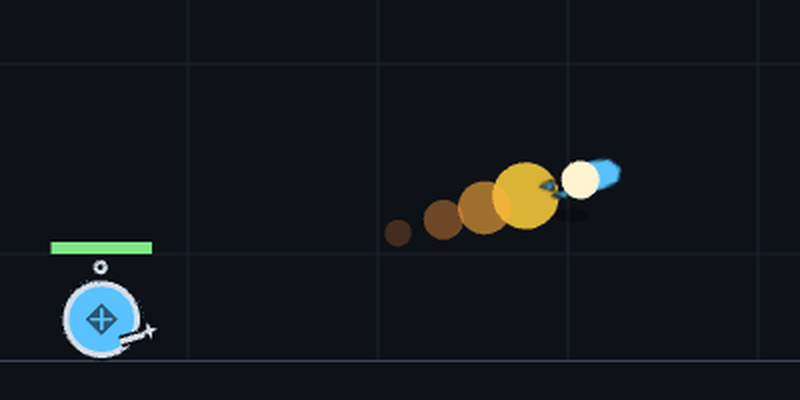
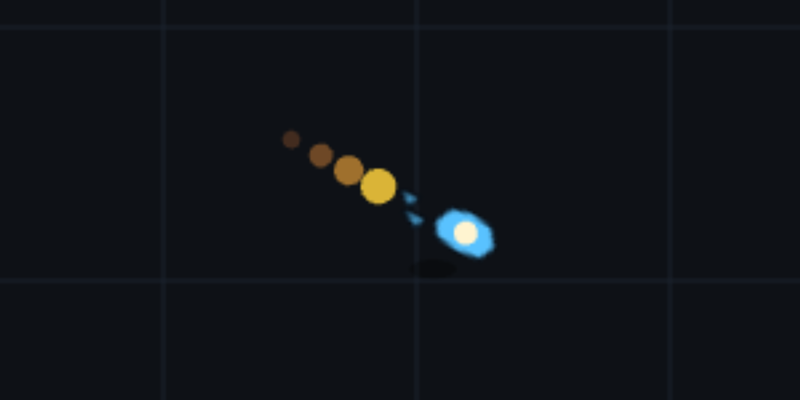
#3292: size a spell's core and trail from its visible sprite, not its frame
Each projectile sprite gets its head (where it sits, how big) read off
its SVG; the core sits on the head, the trail starts behind the
sprite's tail with no dot bigger than the head. Retaken Glowstone
flight shot, new Mighty Blow shot.

Changed region(s): [[0.0, 0.6, 1.0, 0.93], [0.3438, 0.33, 0.7812, 0.66]]

diff --git a/apps/web/src/render/projectiles.ts b/apps/web/src/render/projectiles.ts
@@ -170,12 +170,37 @@ export function projectileLayer(shot: RenderableProjectile, clock: number): numb
  * A flying spell's look (#3292, docs/art/3191-skill-visuals.md
  * "Glowstone"): over its own sprite, which tells which spell it is, a
  * near-white core says it is hot, a short warm trail says where it came
- * from, and a soft shadow on the ground under it says it flies.
+ * from, and a soft shadow on the ground under it says it flies. All of
+ * it is sized from what the sprite draws, never from its padded frame.
  */
 
-/** The core: near-white, this share of the sprite's radius. */
+/** Where a sprite's bright head sits in its frame, px: this far ahead of the frame's centre, this big. */
+export interface SpriteHead {
+  readonly along: number;
+  readonly radius: number;
+}
+
+/** Each sprite's head, read off its SVG in `public/icons/projectile/`. */
+export const SPRITE_HEAD: Readonly<Record<ProjectileSprite, SpriteHead>> = {
+  arrow: { along: 10, radius: 4 },
+  spear: { along: 8, radius: 4 },
+  bolt: { along: 8.5, radius: 4.5 },
+  fireball: { along: 8.5, radius: 4.5 },
+  "lightning-orb": { along: 9, radius: 4 },
+  "ice-shard": { along: 6, radius: 3 },
+  "water-trident": { along: 10, radius: 5 },
+  "ebon-hawk": { along: 5, radius: 3 },
+  stone: { along: 6, radius: 5 },
+  "thrown-dagger": { along: 8, radius: 3 },
+  "deathly-swarm": { along: 10, radius: 4.5 },
+};
+
+/** How far behind the frame's centre every sprite's tail ends, px: each starts 2 px into its 32 px frame. */
+export const SPRITE_TAIL = 14;
+
+/** The core: near-white, this share of the head's radius, on the head. */
 export const SHOT_CORE_COLOUR = 0xfff4d0;
-export const SHOT_CORE_SHARE = 0.4;
+export const SHOT_CORE_SHARE = 0.6;
 
 /** The shadow: a soft dark ellipse this far under the sprite, on the deck below it. */
 export const SHOT_SHADOW = {
@@ -186,37 +211,59 @@ export const SHOT_SHADOW = {
   alpha: 0.3,
 } as const;
 
-/** The trail's longest reach behind the sprite, in sprite lengths. */
-export const SHOT_TRAIL_REACH = 2;
-
-/** One dot of a flying spell's trail, where it sits from the sprite's centre. */
-export interface TrailDot {
+/** A dot drawn by a flying spell, where it sits from the sprite's centre. */
+export interface ShotDot {
   readonly offset: Vec2;
   readonly radius: number;
+}
+
+/** The core of `sprite` drawn at `scale`, flying along `heading`. */
+export function projectileCore(sprite: ProjectileSprite, heading: number, scale: number): ShotDot {
+  const head = SPRITE_HEAD[sprite];
+  return {
+    offset: {
+      x: Math.cos(heading) * head.along * scale,
+      y: Math.sin(heading) * head.along * scale,
+    },
+    radius: SHOT_CORE_SHARE * head.radius * scale,
+  };
+}
+
+/** The trail's longest reach behind the sprite's tail, in head radii. */
+export const SHOT_TRAIL_REACH = 6;
+
+/** One dot of a flying spell's trail. */
+export interface TrailDot extends ShotDot {
   readonly colour: number;
   readonly alpha: number;
 }
 
-/** Warm whatever the sprite: gold at the sprite, ember at the tail. */
+/** Warm whatever the sprite: gold at the sprite, ember at the tail; `back` behind the tail and `share` big, in head radii. */
 const TRAIL = [
-  { back: 0.6, share: 0.35, colour: 0xffd23d, alpha: 0.85 },
-  { back: 1.05, share: 0.28, colour: 0xffb03d, alpha: 0.6 },
-  { back: 1.5, share: 0.21, colour: 0xff9a3d, alpha: 0.4 },
-  { back: SHOT_TRAIL_REACH, share: 0.14, colour: 0xff8a3d, alpha: 0.22 },
+  { back: 1, share: 0.9, colour: 0xffd23d, alpha: 0.85 },
+  { back: 2.7, share: 0.75, colour: 0xffb03d, alpha: 0.6 },
+  { back: 4.3, share: 0.6, colour: 0xff9a3d, alpha: 0.4 },
+  { back: SHOT_TRAIL_REACH, share: 0.45, colour: 0xff8a3d, alpha: 0.22 },
 ] as const;
 
 /**
- * The trail behind a sprite `length` long, flying along `heading`:
- * fading dots back along its line, none past `SHOT_TRAIL_REACH`. A shot
- * flies straight, so the scene works this out once per shot, never per
- * frame.
+ * The trail behind `sprite` drawn at `scale`, flying along `heading`:
+ * fading dots back along its line from its tail, none bigger than its
+ * head, none past `SHOT_TRAIL_REACH`. A shot flies straight, so the
+ * scene works this out once per shot, never per frame.
  */
-export function projectileTrail(heading: number, length: number): readonly TrailDot[] {
+export function projectileTrail(
+  sprite: ProjectileSprite,
+  heading: number,
+  scale: number,
+): readonly TrailDot[] {
+  const head = SPRITE_HEAD[sprite].radius * scale;
+  const tail = SPRITE_TAIL * scale;
   const cos = Math.cos(heading);
   const sin = Math.sin(heading);
   return TRAIL.map(({ back, share, colour, alpha }) => ({
-    offset: { x: -cos * back * length, y: -sin * back * length },
-    radius: share * length,
+    offset: { x: -cos * (tail + back * head), y: -sin * (tail + back * head) },
+    radius: share * head,
     colour,
     alpha,
   }));

diff --git a/apps/web/src/render/projectiles.test.ts b/apps/web/src/render/projectiles.test.ts
@@ -15,8 +15,11 @@ import {
   projectileHeading,
   projectileLayer,
   projectilePosition,
+  projectileCore,
   projectileTrail,
   SHOT_TRAIL_REACH,
+  SPRITE_HEAD,
+  SPRITE_TAIL,
   PROJECTILE_SPRITES,
   projectileSprite,
   SKILL_SPRITE,
@@ -187,31 +190,63 @@ describe("a shot between layers (#2972)", () => {
 });
 
 describe("projectileTrail (#3292)", () => {
-  const length = 16;
-
   it.each([0, Math.PI / 3, Math.PI, -2])("trails behind a sprite flying at %s rad", (heading) => {
-    const trail = projectileTrail(heading, length);
-    expect(trail.length).toBeGreaterThanOrEqual(3);
-    expect(trail.length).toBeLessThanOrEqual(4);
-    const ahead = { x: Math.cos(heading), y: Math.sin(heading) };
-    let last = 0;
-    for (const dot of trail) {
-      const along = dot.offset.x * ahead.x + dot.offset.y * ahead.y;
-      const across = dot.offset.x * ahead.y - dot.offset.y * ahead.x;
-      expect(along).toBeLessThan(0);
-      expect(across).toBeCloseTo(0, 9);
-      expect(-along).toBeGreaterThan(last);
-      last = -along;
-      expect(-along + dot.radius).toBeLessThanOrEqual(SHOT_TRAIL_REACH * length + dot.radius);
+    for (const sprite of PROJECTILE_SPRITES) {
+      const head = SPRITE_HEAD[sprite].radius;
+      const trail = projectileTrail(sprite, heading, 1);
+      expect(trail.length).toBeGreaterThanOrEqual(3);
+      expect(trail.length).toBeLessThanOrEqual(4);
+      const ahead = { x: Math.cos(heading), y: Math.sin(heading) };
+      let last = SPRITE_TAIL;
+      for (const dot of trail) {
+        const along = dot.offset.x * ahead.x + dot.offset.y * ahead.y;
+        const across = dot.offset.x * ahead.y - dot.offset.y * ahead.x;
+        expect(across).toBeCloseTo(0, 9);
+        // Behind the sprite's tail, never over the sprite, never bigger than its head.
+        expect(-along - dot.radius).toBeGreaterThanOrEqual(SPRITE_TAIL);
+        expect(-along).toBeGreaterThan(last);
+        expect(dot.radius).toBeLessThanOrEqual(head);
+        last = -along;
+      }
+      expect(last).toBeLessThanOrEqual(SPRITE_TAIL + SHOT_TRAIL_REACH * head + 1e-9);
     }
-    expect(last).toBeLessThanOrEqual(SHOT_TRAIL_REACH * length);
+  });
+
+  it("scales with the sprite as drawn", () => {
+    const one = projectileTrail("stone", 0, 1);
+    const two = projectileTrail("stone", 0, 2);
+    two.forEach((dot, i) => {
+      expect(dot.radius).toBeCloseTo(2 * (one[i]?.radius ?? 0), 9);
+      expect(dot.offset.x).toBeCloseTo(2 * (one[i]?.offset.x ?? 0), 9);
+    });
   });
 
   it("fades warm from gold at the sprite to ember at the tail, whatever the sprite", () => {
-    const trail = projectileTrail(0, length);
+    const trail = projectileTrail("stone", 0, 1);
     expect(trail[0]?.colour).toBe(0xffd23d);
     expect(trail.at(-1)?.colour).toBe(0xff8a3d);
     const alphas = trail.map((dot) => dot.alpha);
     expect([...alphas].sort((a, b) => b - a)).toEqual(alphas);
+  });
+});
+
+describe("projectileCore (#3292)", () => {
+  it.each([0, Math.PI / 2, -2])("sits on the sprite's head, inside it, at %s rad", (heading) => {
+    for (const sprite of PROJECTILE_SPRITES) {
+      const head = SPRITE_HEAD[sprite];
+      const core = projectileCore(sprite, heading, 1.5);
+      expect(core.offset.x).toBeCloseTo(Math.cos(heading) * head.along * 1.5, 9);
+      expect(core.offset.y).toBeCloseTo(Math.sin(heading) * head.along * 1.5, 9);
+      expect(core.radius).toBeGreaterThan(0);
+      expect(core.radius).toBeLessThan(head.radius * 1.5);
+    }
+  });
+
+  it("puts every head inside its 32 px frame", () => {
+    for (const sprite of PROJECTILE_SPRITES) {
+      const head = SPRITE_HEAD[sprite];
+      expect(head.along + head.radius).toBeLessThanOrEqual(16);
+      expect(head.radius).toBeLessThanOrEqual(6);
+    }
   });
 });

diff --git a/apps/web/src/render/arena-scene.ts b/apps/web/src/render/arena-scene.ts
@@ -131,10 +131,11 @@ import {
   projectileLanding,
   projectileLayer,
   projectilePosition,
+  projectileCore,
   projectileTrail,
   SHOT_CORE_COLOUR,
-  SHOT_CORE_SHARE,
   SHOT_SHADOW,
+  type ShotDot,
   type TrailDot,
   shotFadeAlpha,
 } from "./projectiles.js";
@@ -671,7 +672,7 @@ export class ArenaScene extends Phaser.Scene {
       endedAt: number | undefined;
       /** A flying spell's (#3292): where it left, its trail, and its core's radius. */
       readonly spell:
-        | { readonly from: Vec2; readonly trail: readonly TrailDot[]; readonly core: number }
+        | { readonly from: Vec2; readonly trail: readonly TrailDot[]; readonly core: ShotDot }
         | undefined;
     }
   >();
@@ -1837,7 +1838,7 @@ export class ArenaScene extends Phaser.Scene {
         const heading = projectileHeading(shot, this.snapshot.structure, this.snapshot.lifts);
         image.setRotation(heading);
         image.setTint(shot.colour);
-        const length = Math.max(image.displayWidth, image.displayHeight);
+        const scale = image.scaleX;
         const from = projectilePosition(
           shot,
           shot.launchedAt,
@@ -1852,8 +1853,8 @@ export class ArenaScene extends Phaser.Scene {
             shot.spell && from !== undefined
               ? {
                   from,
-                  trail: projectileTrail(heading, length),
-                  core: (SHOT_CORE_SHARE * length) / 2,
+                  trail: projectileTrail(shot.sprite, heading, scale),
+                  core: projectileCore(shot.sprite, heading, scale),
                 }
               : undefined,
         });
@@ -1895,7 +1896,11 @@ export class ArenaScene extends Phaser.Scene {
     for (const { image, spell } of this.projectileImages.values()) {
       if (spell !== undefined && cores !== undefined) {
         cores.fillStyle(SHOT_CORE_COLOUR, image.alpha);
-        cores.fillCircle(image.x, image.y, spell.core);
+        cores.fillCircle(
+          image.x + spell.core.offset.x,
+          image.y + spell.core.offset.y,
+          spell.core.radius,
+        );
       }
     }
   }
